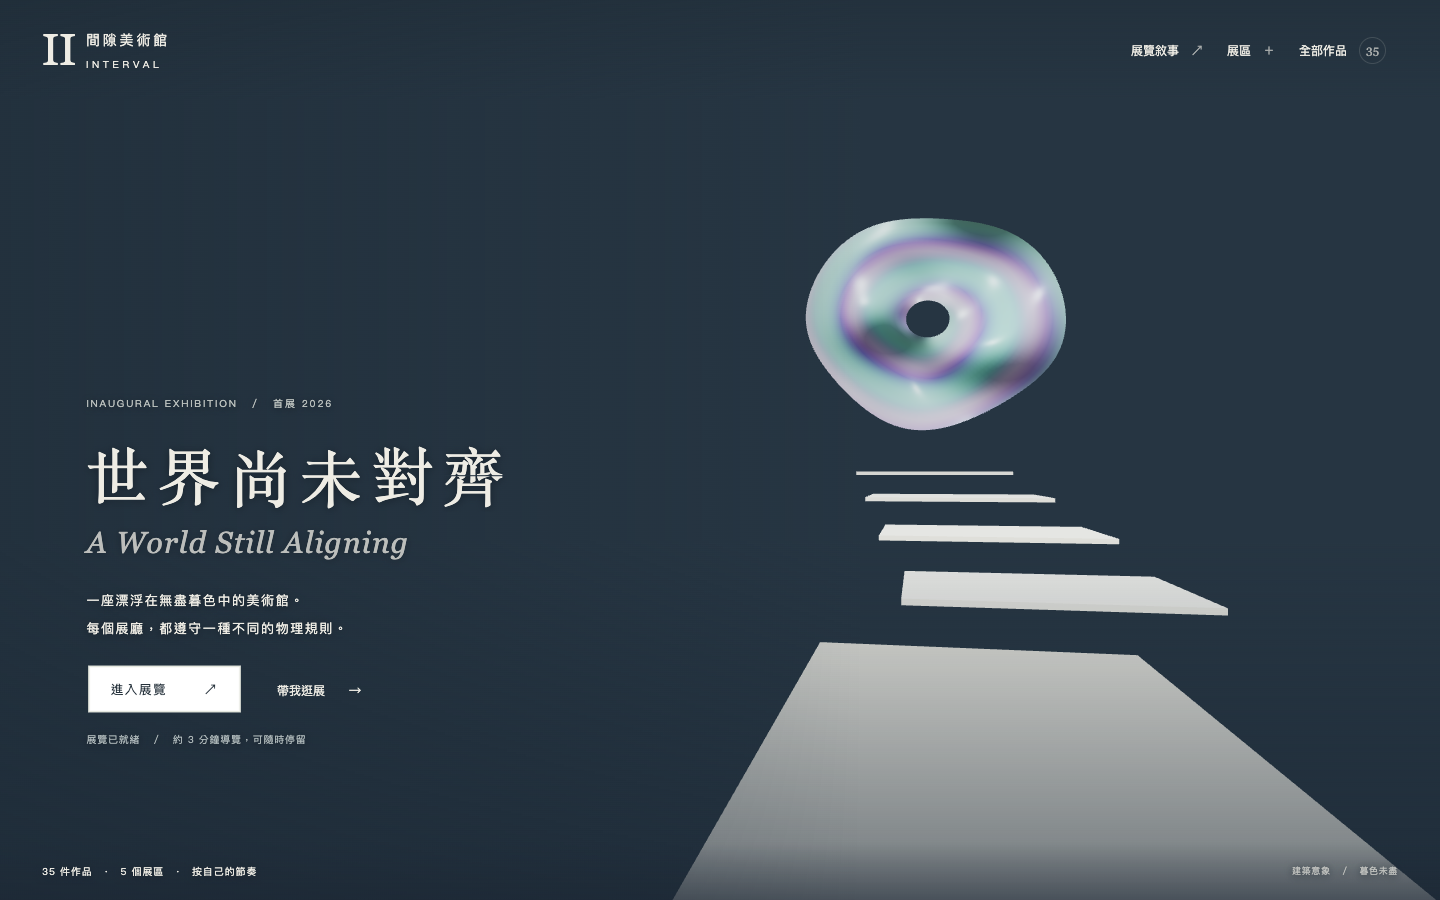
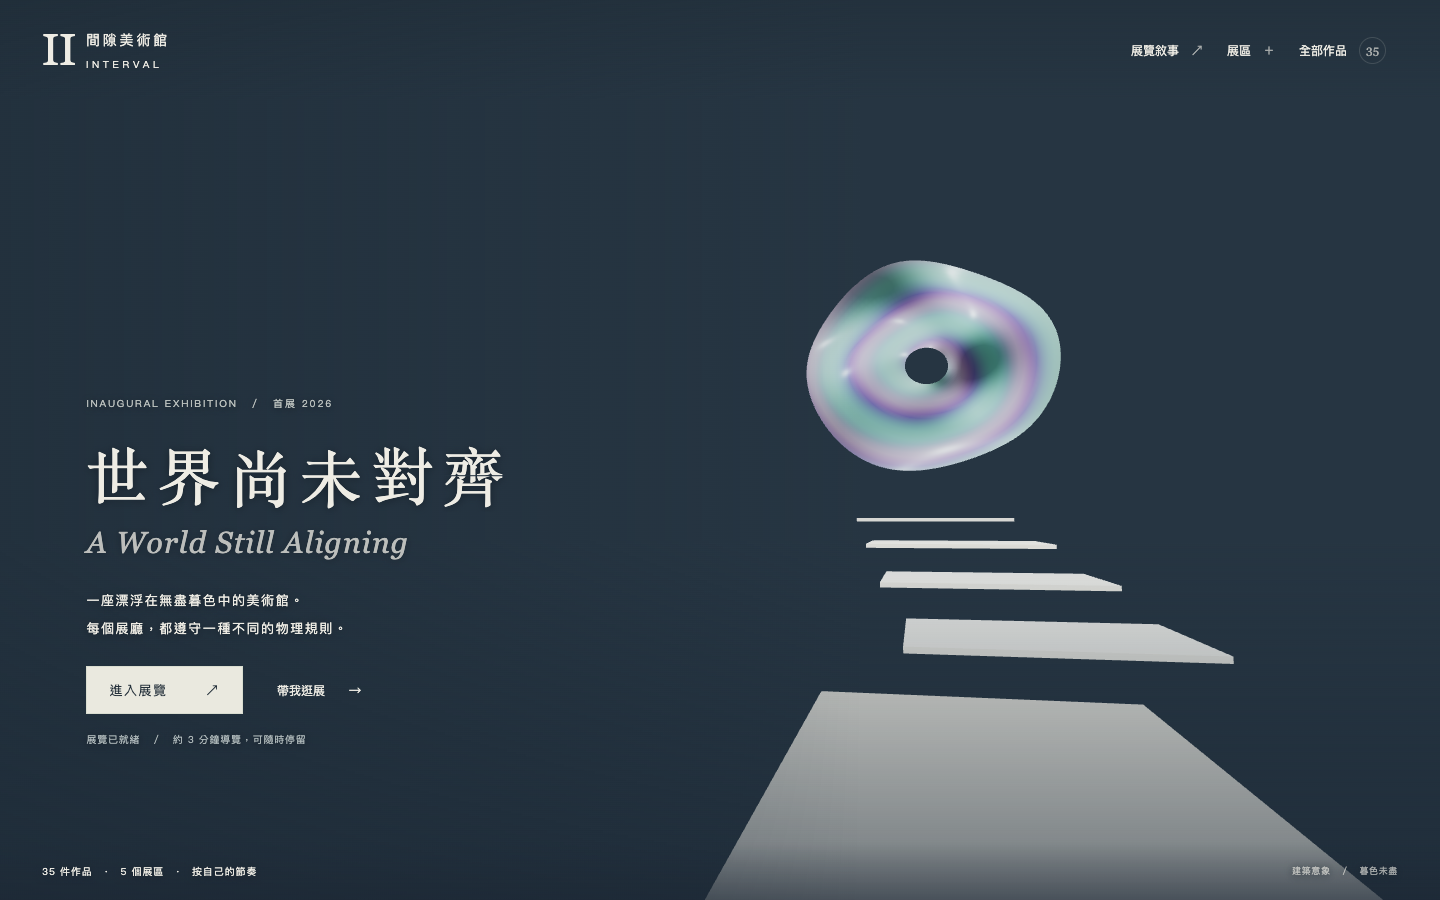
feat: tilt entrance camera upward during forward approach

Changed region(s): [[0.4688, 0.2178, 1.0, 1.0], [0.0625, 0.7156, 0.1875, 0.8089]]

diff --git a/interval/js/world.js b/interval/js/world.js
@@ -2,7 +2,7 @@ import * as T from '../../showroom/vendor/three/build/three.module.js';
 const clamp=T.MathUtils.clamp;
 export class MuseumWorld {
  constructor(host,ex,{onWork,onStation,onPortal,onReady,onFailure,onFrame,reduced}){
-  Object.assign(this,{host,ex,onWork,onStation,onPortal,onReady,onFailure,onFrame,reduced});this.section=0;this.pendingTextures=0;this.resources=[];this.labels=[];this.targets=[];this.generation=0;this.yaw=0;this.pitch=0;this.position=new T.Vector3(0,2,13);this.suspended=false;this.dirty=true;this.lowFrames=0;this.lastMotionFrame=0;this.closed=false;this.entryOffset=0;this.entryApproach=null;this.drag=null;this.animation=null;
+  Object.assign(this,{host,ex,onWork,onStation,onPortal,onReady,onFailure,onFrame,reduced});this.section=0;this.pendingTextures=0;this.resources=[];this.labels=[];this.targets=[];this.generation=0;this.yaw=0;this.pitch=0;this.position=new T.Vector3(0,2,13);this.suspended=false;this.dirty=true;this.lowFrames=0;this.lastMotionFrame=0;this.closed=false;this.entryOffset=0;this.entryTilt=0;this.entryApproach=null;this.drag=null;this.animation=null;
   this.renderer=new T.WebGLRenderer({antialias:true,alpha:false,powerPreference:'low-power'});this.renderer.setPixelRatio(Math.min(devicePixelRatio,innerWidth<700?1.5:1.8));this.renderer.outputColorSpace=T.SRGBColorSpace;this.renderer.toneMapping=T.ACESFilmicToneMapping;this.renderer.toneMappingExposure=1.15;this.renderer.shadowMap.enabled=true;this.renderer.shadowMap.type=T.PCFSoftShadowMap;this.renderer.shadowMap.autoUpdate=false;
   this.host.append(this.renderer.domElement);this.camera=new T.PerspectiveCamera(54,1,.1,220);this.scene=new T.Scene();this.group=new T.Group();this.scene.add(this.group);this.ray=new T.Raycaster();this.pointer=new T.Vector2();this.clock=0;this.tick=this.tick.bind(this);
   this.renderer.domElement.addEventListener('webglcontextlost',e=>{e.preventDefault();if(this.closed)return;this.pause(true);onFailure('繪圖環境已中斷，請使用完整作品目錄。');});
@@ -122,12 +122,12 @@ export class MuseumWorld {
   const button=document.createElement('button');button.className='art-label';button.hidden=true;button.title='作品停格載入中';button.innerHTML=`<small>${String(index+1).padStart(2,'0')}</small>${w.name}<span class="arrow">↗</span>`;button.setAttribute('aria-label',`靠近作品：${w.name}`);button.setAttribute('aria-expanded','false');button.setAttribute('aria-controls','work-card');button.addEventListener('click',()=>this.onWork(w));document.getElementById('labels').append(button);this.labels.push({button,pos:new T.Vector3(p.x,p.y-bh/2-.18,p.z+.1),work:w});
  }
  lookAt(target){const dir=new T.Vector3(...target).sub(this.position);this.yaw=Math.atan2(-dir.x,-dir.z);this.pitch=Math.atan2(dir.y,Math.hypot(dir.x,dir.z));}
- resetEntryApproach(){this.entryApproach?.resolve(false);this.entryApproach=null;this.entryOffset=0;this.dirty=true;}
- approachEntry(target,duration=1000){
+ resetEntryApproach(){this.entryApproach?.resolve(false);this.entryApproach=null;this.entryOffset=0;this.entryTilt=0;this.dirty=true;}
+ approachEntry(target,duration=1000,tilt=0){
   this.entryApproach?.resolve(false);this.entryApproach=null;
-  if(this.section!==0||this.reduced||this.suspended||document.hidden){this.entryOffset=0;this.invalidate();return Promise.resolve(false);}
-  if(Math.abs(target-this.entryOffset)<.001){this.entryOffset=target;return Promise.resolve(true);}
-  return new Promise(resolve=>{this.entryApproach={from:this.entryOffset,to:target,start:performance.now(),duration,resolve};this.invalidate();});
+  if(this.section!==0||this.reduced||this.suspended||document.hidden){this.entryOffset=0;this.entryTilt=0;this.invalidate();return Promise.resolve(false);}
+  if(Math.abs(target-this.entryOffset)<.001&&Math.abs(tilt-this.entryTilt)<.00001){this.entryOffset=target;this.entryTilt=tilt;return Promise.resolve(true);}
+  return new Promise(resolve=>{this.entryApproach={from:this.entryOffset,to:target,fromTilt:this.entryTilt,toTilt:tilt,start:performance.now(),duration,resolve};this.invalidate();});
  }
  snapshot(){return {section:this.section,position:this.position.toArray(),yaw:this.yaw,pitch:this.pitch};}
  restore(s){this.animation=null;this.position.fromArray(s.position);this.yaw=s.yaw;this.pitch=s.pitch;this.invalidate();}
@@ -137,8 +137,8 @@ export class MuseumWorld {
  shutdown(){this.closed=true;this.pause(true);this.clear();this.renderer.dispose();this.renderer.forceContextLoss();this.renderer.domElement.remove();window.removeEventListener('resize',this.resize);}
  pause(p){this.suspended=p;if(p)this.resetEntryApproach();if(this.membrane)this.membrane.last=0;if(this.entryFilm)this.entryFilm.last=0;if(p){cancelAnimationFrame(this.raf);this.raf=null;}else this.invalidate();}
  invalidate(){this.dirty=true;if(!this.raf&&!this.suspended&&!document.hidden)this.raf=requestAnimationFrame(this.tick||(()=>{this.raf=null;this.invalidate();}));}
- tick(now){this.raf=null;if(this.suspended||document.hidden)return;const ambient=this.ambientActive();if(ambient){const m=this.entryFilm||this.membrane;if(!m.last||now-m.last>=1000/30){m.elapsed+=m.last?Math.min((now-m.last)/1000,.05):0;m.last=now;if(this.entryFilm)this.disturbEntryFilm(m.elapsed);else this.disturbMembrane(m.elapsed);this.dirty=true;}}else {if(this.membrane)this.membrane.last=0;if(this.entryFilm)this.entryFilm.last=0;}if(this.entryApproach){const a=this.entryApproach,t=clamp((now-a.start)/a.duration,0,1),u=t*t*(3-2*t);this.entryOffset=a.from+(a.to-a.from)*u;this.dirty=true;if(t===1){this.entryApproach=null;a.resolve(true);}}if(this.animation){if(this.lastMotionFrame&&now-this.lastMotionFrame>120)this.lowFrames++;else this.lowFrames=Math.max(0,this.lowFrames-1);this.lastMotionFrame=now;if(this.lowFrames>6){const ratio=this.renderer.getPixelRatio();if(ratio>.76){this.renderer.setPixelRatio(Math.max(.75,ratio*.65));this.renderer.shadowMap.enabled=false;this.resize();this.lowFrames=0;}else{this.onFailure('裝置繪圖速度較慢，已切換為平面觀看。');return;}}const a=this.animation,t=clamp((now-a.start)/a.duration,0,1),u=t*t*(3-2*t);this.position.fromArray(a.from.position).lerp(new T.Vector3(...a.to.position),u);this.yaw=a.from.yaw+(a.to.yaw-a.from.yaw)*u;this.pitch=a.from.pitch+(a.to.pitch-a.from.pitch)*u;if(t===1)this.animation=null;this.dirty=true;}
-  if(this.dirty){this.camera.position.copy(this.position);if(this.section===0&&this.entryOffset){const c=Math.cos(this.pitch);this.camera.position.add(new T.Vector3(-Math.sin(this.yaw)*c,Math.sin(this.pitch),-Math.cos(this.yaw)*c).multiplyScalar(this.entryOffset));}this.camera.rotation.order='YXZ';this.camera.rotation.set(this.pitch,this.yaw,0);this.camera.updateMatrixWorld();this.renderer.render(this.scene,this.camera);for(const l of this.labels){const dist=this.position.distanceTo(l.pos);const v=l.pos.clone().project(this.camera);const front=(this.position.x-l.work.placement.x)*Math.sin(l.work.placement.yaw)+(this.position.z-l.work.placement.z)*Math.cos(l.work.placement.yaw)>0;const visible=front&&this.section>0&&dist<Math.max(19,l.work.placement.width*3)&&v.z<1&&v.z>0&&Math.abs(v.x)<.92&&v.y<.5&&v.y>-.7;l.button.hidden=!visible;if(visible){l.button.style.left=`${(v.x*.5+.5)*innerWidth}px`;let top=(-v.y*.5+.5)*innerHeight;if(innerWidth<700&&l.button.getAttribute('aria-expanded')==='true')top=Math.min(top,document.getElementById('work-card').offsetTop-l.button.offsetHeight-8);l.button.style.top=`${top}px`;}}
+ tick(now){this.raf=null;if(this.suspended||document.hidden)return;const ambient=this.ambientActive();if(ambient){const m=this.entryFilm||this.membrane;if(!m.last||now-m.last>=1000/30){m.elapsed+=m.last?Math.min((now-m.last)/1000,.05):0;m.last=now;if(this.entryFilm)this.disturbEntryFilm(m.elapsed);else this.disturbMembrane(m.elapsed);this.dirty=true;}}else {if(this.membrane)this.membrane.last=0;if(this.entryFilm)this.entryFilm.last=0;}if(this.entryApproach){const a=this.entryApproach,t=clamp((now-a.start)/a.duration,0,1),u=t*t*(3-2*t);this.entryOffset=a.from+(a.to-a.from)*u;this.entryTilt=a.fromTilt+(a.toTilt-a.fromTilt)*u;this.dirty=true;if(t===1){this.entryApproach=null;a.resolve(true);}}if(this.animation){if(this.lastMotionFrame&&now-this.lastMotionFrame>120)this.lowFrames++;else this.lowFrames=Math.max(0,this.lowFrames-1);this.lastMotionFrame=now;if(this.lowFrames>6){const ratio=this.renderer.getPixelRatio();if(ratio>.76){this.renderer.setPixelRatio(Math.max(.75,ratio*.65));this.renderer.shadowMap.enabled=false;this.resize();this.lowFrames=0;}else{this.onFailure('裝置繪圖速度較慢，已切換為平面觀看。');return;}}const a=this.animation,t=clamp((now-a.start)/a.duration,0,1),u=t*t*(3-2*t);this.position.fromArray(a.from.position).lerp(new T.Vector3(...a.to.position),u);this.yaw=a.from.yaw+(a.to.yaw-a.from.yaw)*u;this.pitch=a.from.pitch+(a.to.pitch-a.from.pitch)*u;if(t===1)this.animation=null;this.dirty=true;}
+  if(this.dirty){this.camera.position.copy(this.position);if(this.section===0&&this.entryOffset){const c=Math.cos(this.pitch);this.camera.position.add(new T.Vector3(-Math.sin(this.yaw)*c,Math.sin(this.pitch),-Math.cos(this.yaw)*c).multiplyScalar(this.entryOffset));}this.camera.rotation.order='YXZ';this.camera.rotation.set(this.pitch+(this.section===0?this.entryTilt:0),this.yaw,0);this.camera.updateMatrixWorld();this.renderer.render(this.scene,this.camera);for(const l of this.labels){const dist=this.position.distanceTo(l.pos);const v=l.pos.clone().project(this.camera);const front=(this.position.x-l.work.placement.x)*Math.sin(l.work.placement.yaw)+(this.position.z-l.work.placement.z)*Math.cos(l.work.placement.yaw)>0;const visible=front&&this.section>0&&dist<Math.max(19,l.work.placement.width*3)&&v.z<1&&v.z>0&&Math.abs(v.x)<.92&&v.y<.5&&v.y>-.7;l.button.hidden=!visible;if(visible){l.button.style.left=`${(v.x*.5+.5)*innerWidth}px`;let top=(-v.y*.5+.5)*innerHeight;if(innerWidth<700&&l.button.getAttribute('aria-expanded')==='true')top=Math.min(top,document.getElementById('work-card').offsetTop-l.button.offsetHeight-8);l.button.style.top=`${top}px`;}}
    this.onFrame?.(this.snapshot());this.dirty=false;}
   if(this.animation||this.entryApproach)this.invalidate();else if(ambient&&!this.raf&&!this.suspended&&!document.hidden)this.raf=requestAnimationFrame(this.tick);
  }

diff --git a/interval/js/app.js b/interval/js/app.js
@@ -6,7 +6,7 @@ let cardAnimation=null,cardEpoch=0,focusGeneration=0;
 const dialogMotion=new Map();
 let entryBusy=false,entryGeneration=0;
 const entryPointer=matchMedia('(hover:hover) and (pointer:fine)');
-const entryMotion={hoverDistance:1.8,hoverDuration:1000,returnDuration:800,pressDistance:4.5,pressDuration:1250,holdDuration:160};
+const entryMotion={hoverDistance:1.8,hoverDuration:1000,returnDuration:800,pressDistance:4.5,pressDuration:1250,holdDuration:160,pressTilt:3*Math.PI/180};
 const exhibitionText='形狀如何共處，規則如何產生秩序，材料如何留下時間？這座漂浮在暮色中的館，讓五個展廳各自遵守不同的空間規則。從測量的薄屏、共處的色面，到生長的標本與交疊的曝光，最後在一張接近消失的膜前停下。世界不必先對齊，關係也能慢慢形成。';
 function setReduced(value){reduced=value;document.body.classList.toggle("reduce-motion",value);if(value)finishIntroTitle();if(value&&cardAnimation)cardAnimation.finish();if(value)for(const state of dialogMotion.values())state.animation?.finish();if(world){world.reduced=value;if(value)world.resetEntryApproach();if(world.membrane)world.membrane.last=0;if(world.entryFilm)world.entryFilm.last=0;world.invalidate();}$('motion').setAttribute('aria-pressed',String(value));$('motion').textContent=value?'動態已減少':'減少動態';}
 setReduced(reduced);reduceQuery.addEventListener('change',e=>setReduced(e.matches));$('motion').onclick=()=>setReduced(!reduced);
@@ -36,15 +36,13 @@ $('about-button').onclick=()=>showAbout();$('chapter-name').onclick=()=>showAbou
 function entryFeedback(amount,duration=entryMotion.hoverDuration){if(!entryBusy&&!$('veil').classList.contains('active')&&world?.section===0&&!reduced)world.approachEntry(amount,duration);}
 $('enter').addEventListener('pointerenter',()=>{if(entryPointer.matches)entryFeedback(entryMotion.hoverDistance);});
 $('enter').addEventListener('pointerleave',()=>entryFeedback(0,entryMotion.returnDuration));
-$('enter').addEventListener('pointerdown',()=>entryFeedback(entryMotion.pressDistance,entryMotion.pressDuration));
 $('enter').addEventListener('pointercancel',()=>entryFeedback(0,entryMotion.returnDuration));
 $('enter').addEventListener('focus',()=>{if(entryPointer.matches&&$('enter').matches(':focus-visible'))entryFeedback(entryMotion.hoverDistance);});
 $('enter').addEventListener('blur',()=>entryFeedback(0,entryMotion.returnDuration));
-$('enter').addEventListener('keydown',e=>{if(e.key==='Enter'||e.key===' ')entryFeedback(entryMotion.pressDistance,entryMotion.pressDuration);});
 async function enterExhibition(){
  if(!world)return changeRoom(1);if(current!==0||entryBusy)return;
  entryBusy=true;$('enter').setAttribute('aria-busy','true');const generation=++entryGeneration,entryWorld=world;finishIntroTitle();
- const completed=reduced||await entryWorld.approachEntry(entryMotion.pressDistance,entryMotion.pressDuration);
+ const completed=reduced||await entryWorld.approachEntry(entryMotion.pressDistance,entryMotion.pressDuration,entryMotion.pressTilt);
  if(completed&&!reduced)await new Promise(r=>setTimeout(r,entryMotion.holdDuration));
  if(generation!==entryGeneration||world!==entryWorld||current!==0)return;
  entryBusy=false;$('enter').removeAttribute('aria-busy');if(completed&&!document.hidden)await changeRoom(1);
@@ -91,9 +89,9 @@ document.addEventListener('visibilitychange',()=>{world?.pause(document.hidden||
 document.addEventListener('keydown',e=>{if(e.key==='Escape'&&!document.querySelector('dialog[open]')){hideCard();pauseTour();}});
 function fallback(reason){entryGeneration++;entryBusy=false;$('enter').removeAttribute('aria-busy');moveGeneration++;transitionGeneration++;$('veil').classList.remove('active');world?.shutdown();world=null;current=0;station=0;exitTour();updateChrome();$('work-card').hidden=true;document.body.classList.add('fallback');$('loading-preview').hidden=false;$('status').textContent=reason+' 所有 35 件作品可從目錄觀看。';$('enter').textContent='以作品目錄參觀 ↗';$('enter').onclick=()=>showDialog('catalog-dialog');$('intro-tour').hidden=true;$('room-controls').hidden=true;$('chapter').hidden=true;world=null;}
 async function boot(){try{const response=await fetch('exhibition.json');if(!response.ok)throw Error('資料未能載入');ex=await response.json();buildUI();if(new URLSearchParams(location.search).has('flat')){fallback('已切換為平面觀看模式。');return;}
- const {MuseumWorld}=await import('./world.js?v=entry-feedback-2');world=new MuseumWorld($('world'),ex,{onWork:w=>{if(selected?.id===w.id&&!$('work-card').hidden&&!$('work-card').inert)hideCard();else focusWork(w);},onStation:goStation,onPortal:()=>{},onReady:()=>{$('loading-preview').hidden=true;$('status').textContent='展覽已就緒　／　約 3 分鐘導覽，可隨時停留';},onFailure:fallback,reduced});
+ const {MuseumWorld}=await import('./world.js?v=entry-tilt-3');world=new MuseumWorld($('world'),ex,{onWork:w=>{if(selected?.id===w.id&&!$('work-card').hidden&&!$('work-card').inert)hideCard();else focusWork(w);},onStation:goStation,onPortal:()=>{},onReady:()=>{$('loading-preview').hidden=true;$('status').textContent='展覽已就緒　／　約 3 分鐘導覽，可隨時停留';},onFailure:fallback,reduced});
  // A read-only snapshot assists repeatable local QA and never starts artwork contexts.
- Object.defineProperty(window,'intervalState',{get:()=>({current,station,selected:selected?.id,viewer:viewerWork?.id,position:world?.snapshot(),tour:tour?{index:tour.index,paused:tour.paused}:null,render:world?{pending:world.pendingTextures,textures:world.renderer.info.memory.textures,geometries:world.renderer.info.memory.geometries,calls:world.renderer.info.render.calls,scheduled:!!world.raf,moving:!!world.animation||!!world.entryApproach,entryOffset:world.entryOffset,ambient:world.ambientActive(),membraneTime:world.membrane?.elapsed??null,entryFilmTime:world.entryFilm?.elapsed??null}:null})});
+ Object.defineProperty(window,'intervalState',{get:()=>({current,station,selected:selected?.id,viewer:viewerWork?.id,position:world?.snapshot(),tour:tour?{index:tour.index,paused:tour.paused}:null,render:world?{pending:world.pendingTextures,textures:world.renderer.info.memory.textures,geometries:world.renderer.info.memory.geometries,calls:world.renderer.info.render.calls,scheduled:!!world.raf,moving:!!world.animation||!!world.entryApproach,entryOffset:world.entryOffset,entryTilt:world.entryTilt,ambient:world.ambientActive(),membraneTime:world.membrane?.elapsed??null,entryFilmTime:world.entryFilm?.elapsed??null}:null})});
  }catch(err){fallback('三維展場無法啟動。');if(!ex){$('status').innerHTML='展覽資料未能載入。請確認以靜態伺服器開啟。<a href="collection.html">開啟完整作品目錄 ↗</a>';}}finally{startIntroTitle(()=>reduced);}
 }
 document.querySelector('.skip').onclick=e=>{if(ex){e.preventDefault();showDialog('catalog-dialog');}};

diff --git a/interval/index.html b/interval/index.html
@@ -34,5 +34,5 @@
 <dialog id="catalog-dialog" aria-labelledby="catalog-title"><button class="close" data-close aria-label="關閉全部作品">×</button><p class="eyebrow">COLLECTION　／　SECOND EDITIONS ONLY</p><h2 id="catalog-title">全部作品 <small>35</small></h2><label class="search-label" for="search">尋找一件作品</label><input id="search" type="search" placeholder="作品名稱、媒材或展區"><div id="filters" aria-label="作品展區篩選"></div><div id="catalog"></div><p id="empty" hidden>沒有符合的作品。</p></dialog>
 <dialog id="viewer" aria-labelledby="viewer-title"><div class="viewer-head"><div><span class="live-dot"></span><span id="viewer-title"></span><small>原作即時互動</small></div><div><a id="original-link" target="_blank" rel="noopener">開啟原作品 ↗</a><button id="viewer-close">返回展間 ×</button></div></div><div id="viewer-body"><img id="viewer-preview" alt="作品真實停格"><p id="viewer-status" role="status">正在載入原作品…</p><div id="frame-host"></div><div id="viewer-error" hidden><p>原作品暫時無法啟動。你可以返回展間或開啟原作品頁。</p><button id="viewer-retry">重新載入</button></div></div></dialog>
 <noscript><div class="no-script">此館的三維空間需要 JavaScript。所有作品仍可由<a href="collection.html">完整作品目錄</a>開啟。</div></noscript>
-<script type="module" src="js/app.js?v=entry-feedback-2"></script>
+<script type="module" src="js/app.js?v=entry-tilt-3"></script>
 </body></html>

diff --git a/interval/REPORT.md b/interval/REPORT.md
@@ -209,3 +209,10 @@
 - Hover 前移改為 1.8 米／1000 ms，移開以 800 ms 復位；按下推至 4.5 米／1250 ms，完成後停留 160 ms，再開始淡出。
 - 桌機與手機模擬逐幀記錄偏移與淡出狀態，確認淡出前已到達 4.5 米，並保留至少 100 ms 的可見停留；點擊至淡出開始超過 1200 ms。取消、背景中斷、重複點擊、準確復位及減少動態回歸通過，無頁面錯誤。
 - Chromium 151.0.7922.34／SwiftShader，1440×900 桌機、390×844 手機觸控模擬，未使用實體手機。更新 hover 與按下前移畫面，重跑：`tools/verify-entry-feedback.cjs`。
+
+## 正式入口採用 B：同步前移與上仰
+
+- 點擊「進入展覽」同步前移 4.5 米與上仰 3°，共用 1250 ms smoothstep；完成後停留 160 ms，再淡出進館。Hover／鍵盤焦點仍只前移，碟片不額外縮放。
+- 視覺仰角與原始站位、朝向分開，返回入口、換區、面板與背景暫停清除；減少動態跳過。點擊啟動兩項動效，長按不提前推進，鍵盤原生 click 同樣有效。
+- Chromium 151.0.7922.34／SwiftShader：1440×900 桌機、390×844 手機觸控模擬，逐幀確認首 400 ms 已同步前移／上仰，淡出時偏移 4.5 米、仰角 3°；停留、返回、背景取消、重複點擊、hover／焦點復位及減少動態通過，無頁面錯誤。已檢視桌機、手機完成構圖，未使用實體手機。
+- 更新 `tools/verify-entry-feedback.cjs` 與 `screenshots/desktop-entry-press.png`；新增 `screenshots/mobile-entry-press.png`。

diff --git a/interval/README.md b/interval/README.md
@@ -113,6 +113,6 @@ node interval/tools/capture-views.cjs
 
 ### 入口按鈕的鏡頭回應
 
-桌機「進入展覽」hover 或鍵盤焦點時，鏡頭沿觀看方向前移 1.8 米（1000 ms），移開或失焦回到原位。按下時推至 4.5 米（1250 ms），前移完成後停留 160 ms，再接上既有淡出進館。移開復位約 800 ms。手機只在按下時回應。朝向固定，沒有循環晃動。
+桌機「進入展覽」hover 或鍵盤焦點時，鏡頭沿觀看方向前移 1.8 米（1000 ms），移開或失焦回到原位。點擊時同步推至 4.5 米並上仰 3°（1250 ms），完成後停留 160 ms，再接上既有淡出進館。移開復位約 800 ms。手機只在按下時回應。Hover 朝向固定；click 上仰一次，沒有循環晃動。
 
 `MuseumWorld.approachEntry()` 管理視覺偏移，與實際站位分開；換區、開啟面板及背景暫停清除偏移。減少動態跳過鏡頭回應。重跑：`node interval/tools/verify-entry-feedback.cjs`。
